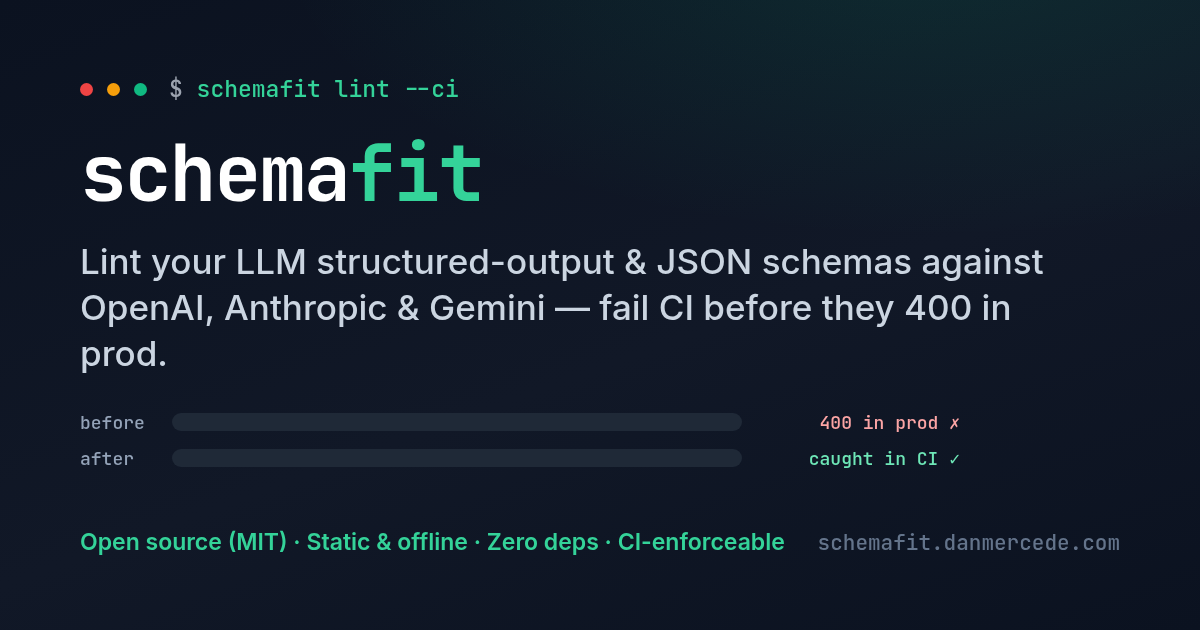
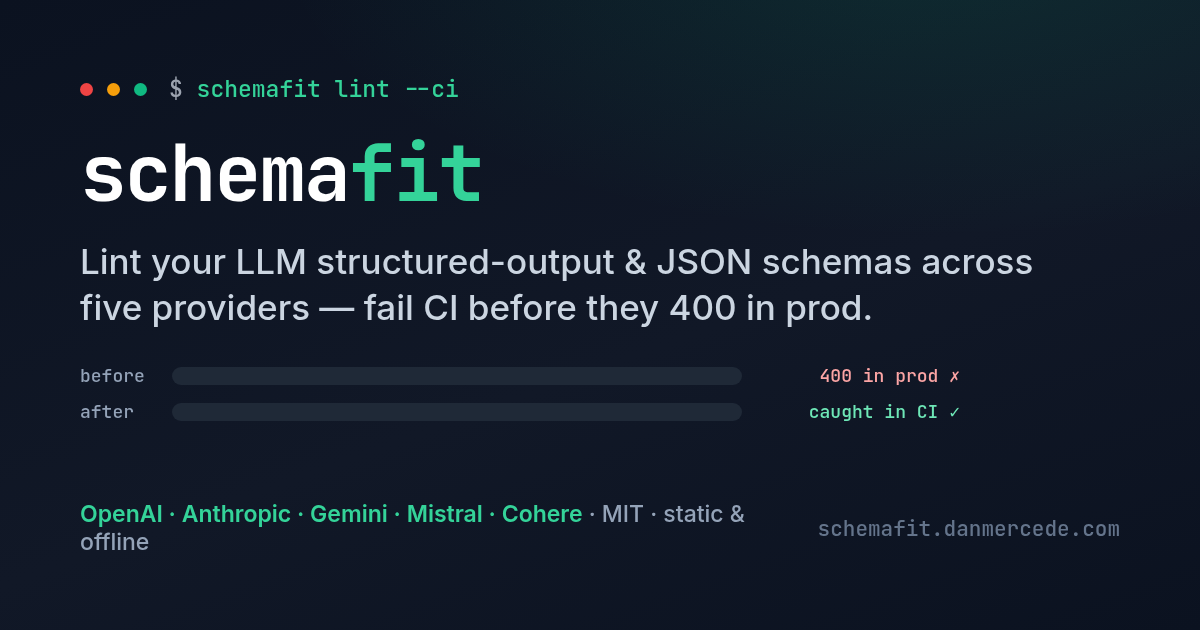
refresh: v0.3 — five providers (Mistral + Cohere) + v0.3.0 links + og-card
schemafit shipped v0.3.0 (3->5 provider rule packs). Update the microsite:
- constants + index.html: provider set is now OpenAI, Anthropic, Gemini,
  Mistral, Cohere; release/CTA links + JSON-LD softwareVersion -> 0.3.0
- og-card regenerated: "across five providers" tagline + all five provider
  names in the footer (was OpenAI/Anthropic/Gemini only)
- demo block left as an accurate 3-provider illustration (its PASS/FAIL output
  reflects real, known behaviour; not fabricating Mistral/Cohere results)

diff --git a/constants.ts b/constants.ts
@@ -1,14 +1,14 @@
 import { ProductData } from './types';
 
 const GITHUB = 'https://github.com/OrionArchitekton/schemafit';
-const RELEASE = 'https://github.com/OrionArchitekton/schemafit/releases/tag/v0.2.0';
+const RELEASE = 'https://github.com/OrionArchitekton/schemafit/releases/tag/v0.3.0';
 const PYPI = 'https://pypi.org/project/schemafit/';
 
 /**
  * Single source of truth for the schemafit microsite.
  *
  * All install/usage/demo content is GROUNDED in the real tool repo (README.md,
- * cli.py, pyproject.toml at v0.2.0) and the live PyPI listing (schemafit 0.2.0).
+ * cli.py, pyproject.toml at v0.3.0) and the live PyPI listing (schemafit 0.3.0).
  * The tool IS on PyPI, so the quickstart uses `pip install schemafit`. The demo
  * shows the tool's real OUTPUT FORMAT with an illustrative example schema — no
  * fabricated benchmarks or performance numbers.
@@ -16,12 +16,12 @@ const PYPI = 'https://pypi.org/project/schemafit/';
 export const PRODUCT_DATA: ProductData = {
   name: 'schemafit',
   tagline:
-    'Lint your LLM structured-output & JSON schemas against OpenAI, Anthropic, and Gemini — and fail CI before they 400 in production.',
+    'Lint your LLM structured-output & JSON schemas against OpenAI, Anthropic, Gemini, Mistral, and Cohere — and fail CI before they 400 in production.',
   credibility:
     'Open source (MIT) · Static & offline · Zero runtime dependencies · CI-enforceable.',
   canonical: 'https://schemafit.danmercede.com/',
   metaDescription:
-    'schemafit is a local-first, MIT-licensed CLI that lints a JSON Schema, structured-output spec, or tool definition against each provider’s documented constraint surface (OpenAI, Anthropic, Gemini) and fails CI before the schema 400s in production — naming the exact JSON-Pointer, keyword, and reason, with a repair pass. Static and offline: no API calls, no key.',
+    'schemafit is a local-first, MIT-licensed CLI that lints a JSON Schema, structured-output spec, or tool definition against each provider’s documented constraint surface (OpenAI, Anthropic, Gemini, Mistral, Cohere) and fails CI before the schema 400s in production — naming the exact JSON-Pointer, keyword, and reason, with a repair pass. Static and offline: no API calls, no key.',
 
   problem: {
     heading: 'The problem',
@@ -38,7 +38,7 @@ export const PRODUCT_DATA: ProductData = {
   cta: {
     primaryLabel: 'View on GitHub',
     primaryUrl: GITHUB,
-    secondaryLabel: 'Read the v0.2.0 release notes',
+    secondaryLabel: 'Read the v0.3.0 release notes',
     secondaryUrl: RELEASE,
   },
 
@@ -56,7 +56,7 @@ export const PRODUCT_DATA: ProductData = {
         title: 'Lint a schema against the providers you ship to',
         command: [
           'schemafit lint my-schema.json \\',
-          '  --provider openai,anthropic,gemini',
+          '  --provider openai,anthropic,gemini,mistral,cohere',
         ].join('\n'),
       },
       {
@@ -66,7 +66,7 @@ export const PRODUCT_DATA: ProductData = {
     ],
   },
 
-  // Command surface verified against schemafit/cli.py subparsers (v0.2.0).
+  // Command surface verified against schemafit/cli.py subparsers (v0.3.0).
   commands: [
     {
       name: 'lint',
@@ -81,7 +81,7 @@ export const PRODUCT_DATA: ProductData = {
     {
       name: 'providers',
       description:
-        'List the supported providers and the versioned rule pack backing each (OpenAI, Anthropic, Gemini).',
+        'List the supported providers and the versioned rule pack backing each (OpenAI, Anthropic, Gemini, Mistral, Cohere).',
     },
     {
       name: 'demo',
@@ -145,7 +145,7 @@ export const PRODUCT_DATA: ProductData = {
   links: [
     { label: 'GitHub repository', url: GITHUB, primary: true },
     { label: 'PyPI package', url: PYPI, primary: true },
-    { label: 'v0.2.0 release notes', url: RELEASE },
+    { label: 'v0.3.0 release notes', url: RELEASE },
     { label: 'Dan Mercede', url: 'https://www.danmercede.com' },
   ],
 

diff --git a/index.html b/index.html
@@ -9,12 +9,12 @@
   <link rel="canonical" href="https://schemafit.danmercede.com/" />
   <title>schemafit — Lint LLM structured-output / JSON schemas before they 400</title>
   <meta name="description"
-    content="schemafit is a local-first, MIT-licensed CLI that lints a JSON Schema, structured-output spec, or tool definition against each provider's documented constraint surface (OpenAI, Anthropic, Gemini) and fails CI before the schema 400s in production — naming the exact JSON-Pointer, keyword, and reason, with a repair pass. Static and offline: no API calls, no key." />
+    content="schemafit is a local-first, MIT-licensed CLI that lints a JSON Schema, structured-output spec, or tool definition against each provider's documented constraint surface (OpenAI, Anthropic, Gemini, Mistral, Cohere) and fails CI before the schema 400s in production — naming the exact JSON-Pointer, keyword, and reason, with a repair pass. Static and offline: no API calls, no key." />
 
   <!-- Open Graph -->
   <meta property="og:type" content="website" />
   <meta property="og:site_name" content="schemafit" />
-  <meta property="og:title" content="schemafit — Lint LLM schemas against OpenAI, Anthropic &amp; Gemini" />
+  <meta property="og:title" content="schemafit — Lint LLM schemas against OpenAI, Anthropic, Gemini, Mistral &amp; Cohere" />
   <meta property="og:description"
     content="A local-first, MIT-licensed CLI that lints your structured-output / JSON schemas against each provider's constraint surface and fails CI before they 400 — static, offline, zero runtime deps." />
   <meta property="og:url" content="https://schemafit.danmercede.com/" />
@@ -22,17 +22,17 @@
   <meta property="og:image:type" content="image/png" />
   <meta property="og:image:width" content="1200" />
   <meta property="og:image:height" content="630" />
-  <meta property="og:image:alt" content="schemafit — lint LLM structured-output and JSON schemas against OpenAI, Anthropic, and Gemini before they 400" />
+  <meta property="og:image:alt" content="schemafit — lint LLM structured-output and JSON schemas against OpenAI, Anthropic, Gemini, Mistral, and Cohere before they 400" />
 
   <!-- Twitter -->
   <meta name="twitter:card" content="summary_large_image" />
   <meta name="twitter:site" content="@danmercede" />
   <meta name="twitter:creator" content="@danmercede" />
-  <meta name="twitter:title" content="schemafit — Lint LLM schemas against OpenAI, Anthropic &amp; Gemini" />
+  <meta name="twitter:title" content="schemafit — Lint LLM schemas against OpenAI, Anthropic, Gemini, Mistral &amp; Cohere" />
   <meta name="twitter:description"
     content="A local-first, MIT-licensed CLI that lints your structured-output / JSON schemas against each provider's constraint surface and fails CI before they 400 — static, offline, zero runtime deps." />
   <meta name="twitter:image" content="https://schemafit.danmercede.com/og-card.png" />
-  <meta name="twitter:image:alt" content="schemafit — lint LLM structured-output and JSON schemas against OpenAI, Anthropic, and Gemini before they 400" />
+  <meta name="twitter:image:alt" content="schemafit — lint LLM structured-output and JSON schemas against OpenAI, Anthropic, Gemini, Mistral, and Cohere before they 400" />
 
   <link rel="icon" href="/favicon.ico" />
 
@@ -47,7 +47,7 @@
           "@type": "SoftwareSourceCode",
           "@id": "https://schemafit.danmercede.com/#software",
           "name": "schemafit",
-          "description": "Provider-aware structured-output / JSON-Schema CI linter. Encodes each provider's documented constraint surface (OpenAI, Anthropic, Gemini) as a versioned declarative rule pack and lints schemas statically, failing CI before they 400 in production.",
+          "description": "Provider-aware structured-output / JSON-Schema CI linter. Encodes each provider's documented constraint surface (OpenAI, Anthropic, Gemini, Mistral, Cohere) as a versioned declarative rule pack and lints schemas statically, failing CI before they 400 in production.",
           "url": "https://schemafit.danmercede.com/",
           "codeRepository": "https://github.com/OrionArchitekton/schemafit",
           "programmingLanguage": "Python",
@@ -62,9 +62,9 @@
           "name": "schemafit",
           "applicationCategory": "DeveloperApplication",
           "operatingSystem": "Linux, macOS, Windows (Python 3)",
-          "description": "A local-first command-line tool that lints a JSON Schema, structured-output spec, or tool definition against OpenAI, Anthropic, and Gemini constraint surfaces, names the exact JSON-Pointer / keyword / reason, and fails CI before the schema 400s — with a repair pass and SARIF output. No API calls, no key.",
+          "description": "A local-first command-line tool that lints a JSON Schema, structured-output spec, or tool definition against OpenAI, Anthropic, Gemini, Mistral, and Cohere constraint surfaces, names the exact JSON-Pointer / keyword / reason, and fails CI before the schema 400s — with a repair pass and SARIF output. No API calls, no key.",
           "url": "https://schemafit.danmercede.com/",
-          "softwareVersion": "0.2.0",
+          "softwareVersion": "0.3.0",
           "isAccessibleForFree": true,
           "license": "https://opensource.org/licenses/MIT",
           "offers": { "@type": "Offer", "price": "0", "priceCurrency": "USD" },